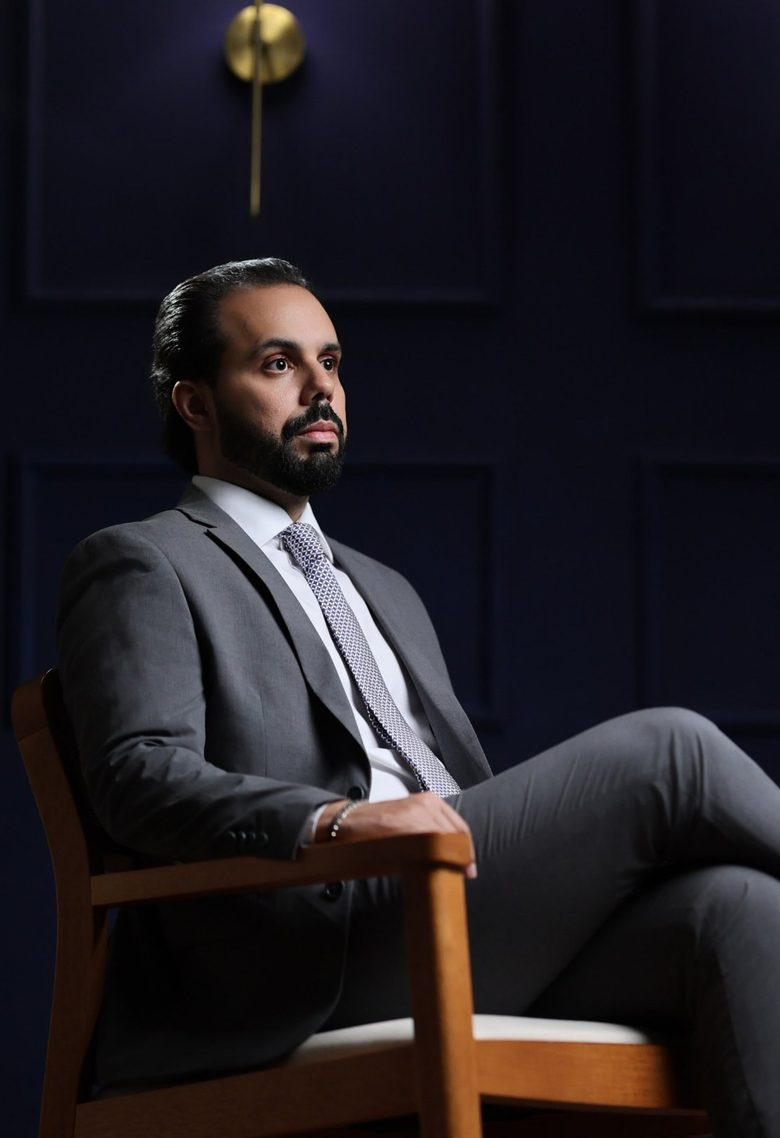
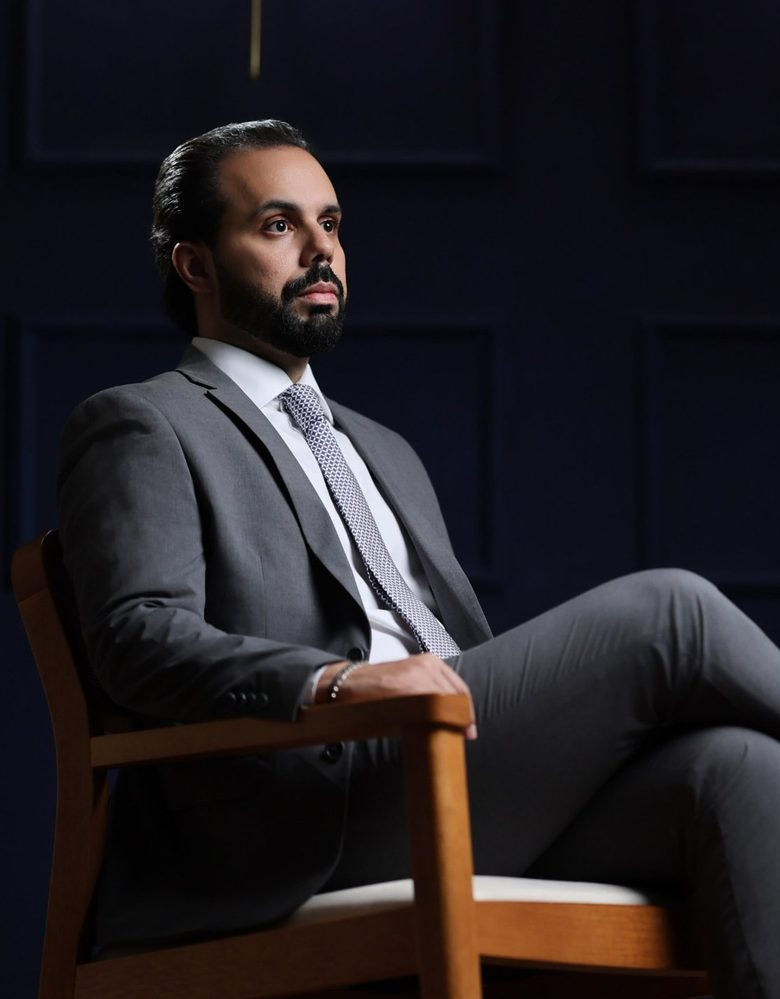
Atualiza biolink João Angeline Júnior

diff --git a/index.html b/index.html
@@ -418,6 +418,14 @@ h1 .lt,h3 .lt{font-variation-settings:'wght' 200}h1 .hv,h3 .hv{font-variation-se
 #ano .pin{z-index:3}
 .s2{z-index:3}
 .rv.btn,.rv.opt,.rv.fold,.rv.slider{transition-property:opacity,transform,filter!important;transition-duration:.8s!important}
+
+/* ---------- v7: foto da capa entra focando de leve ---------- */
+.capa{aspect-ratio:780/999}
+.capa .who{top:29%}
+.capa .chip{top:2.5%}
+.capa.pre img{opacity:0}
+.capa.go img{animation:photoIn 1.25s cubic-bezier(.22,.7,.2,1) both}
+@keyframes photoIn{0%{opacity:0;filter:blur(7px);transform:scale(1.06)}55%{opacity:1;filter:blur(2.5px)}100%{opacity:1;filter:blur(0);transform:scale(1)}}
 </style><noscript><style>#intro{display:none}.rv,.w{opacity:1;transform:none;filter:none}</style></noscript></head>
 <body>
 <svg width="0" height="0" style="position:absolute" aria-hidden="true"><svg xmlns="http://www.w3.org/2000/svg" style="display:none" aria-hidden="true"><symbol id="i-house" viewBox="0 0 256 256"><path d="M219.31,108.68l-80-80a16,16,0,0,0-22.62,0l-80,80A15.87,15.87,0,0,0,32,120v96a8,8,0,0,0,8,8h64a8,8,0,0,0,8-8V160h32v56a8,8,0,0,0,8,8h64a8,8,0,0,0,8-8V120A15.87,15.87,0,0,0,219.31,108.68ZM208,208H160V152a8,8,0,0,0-8-8H104a8,8,0,0,0-8,8v56H48V120l80-80,80,80Z"/></symbol><symbol id="i-identification-badge" viewBox="0 0 256 256"><path d="M75.19,198.4a8,8,0,0,0,11.21-1.6,52,52,0,0,1,83.2,0,8,8,0,1,0,12.8-9.6A67.88,67.88,0,0,0,155,165.51a40,40,0,1,0-53.94,0A67.88,67.88,0,0,0,73.6,187.2,8,8,0,0,0,75.19,198.4ZM128,112a24,24,0,1,1-24,24A24,24,0,0,1,128,112Zm72-88H56A16,16,0,0,0,40,40V216a16,16,0,0,0,16,16H200a16,16,0,0,0,16-16V40A16,16,0,0,0,200,24Zm0,192H56V40H200ZM88,64a8,8,0,0,1,8-8h64a8,8,0,0,1,0,16H96A8,8,0,0,1,88,64Z"/></symbol><symbol id="i-magnifying-glass" viewBox="0 0 256 256"><path d="M229.66,218.34l-50.07-50.06a88.11,88.11,0,1,0-11.31,11.31l50.06,50.07a8,8,0,0,0,11.32-11.32ZM40,112a72,72,0,1,1,72,72A72.08,72.08,0,0,1,40,112Z"/></symbol><symbol id="i-cards" viewBox="0 0 256 256"><path d="M184,72H40A16,16,0,0,0,24,88V200a16,16,0,0,0,16,16H184a16,16,0,0,0,16-16V88A16,16,0,0,0,184,72Zm0,128H40V88H184V200ZM232,56V176a8,8,0,0,1-16,0V56H64a8,8,0,0,1,0-16H216A16,16,0,0,1,232,56Z"/></symbol><symbol id="i-seal-check" viewBox="0 0 256 256"><path d="M225.86,102.82c-3.77-3.94-7.67-8-9.14-11.57-1.36-3.27-1.44-8.69-1.52-13.94-.15-9.76-.31-20.82-8-28.51s-18.75-7.85-28.51-8c-5.25-.08-10.67-.16-13.94-1.52-3.56-1.47-7.63-5.37-11.57-9.14C146.28,23.51,138.44,16,128,16s-18.27,7.51-25.18,14.14c-3.94,3.77-8,7.67-11.57,9.14C88,40.64,82.56,40.72,77.31,40.8c-9.76.15-20.82.31-28.51,8S41,67.55,40.8,77.31c-.08,5.25-.16,10.67-1.52,13.94-1.47,3.56-5.37,7.63-9.14,11.57C23.51,109.72,16,117.56,16,128s7.51,18.27,14.14,25.18c3.77,3.94,7.67,8,9.14,11.57,1.36,3.27,1.44,8.69,1.52,13.94.15,9.76.31,20.82,8,28.51s18.75,7.85,28.51,8c5.25.08,10.67.16,13.94,1.52,3.56,1.47,7.63,5.37,11.57,9.14C109.72,232.49,117.56,240,128,240s18.27-7.51,25.18-14.14c3.94-3.77,8-7.67,11.57-9.14,3.27-1.36,8.69-1.44,13.94-1.52,9.76-.15,20.82-.31,28.51-8s7.85-18.75,8-28.51c.08-5.25.16-10.67,1.52-13.94,1.47-3.56,5.37-7.63,9.14-11.57C232.49,146.28,240,138.44,240,128S232.49,109.73,225.86,102.82Zm-11.55,39.29c-4.79,5-9.75,10.17-12.38,16.52-2.52,6.1-2.63,13.07-2.73,19.82-.1,7-.21,14.33-3.32,17.43s-10.39,3.22-17.43,3.32c-6.75.1-13.72.21-19.82,2.73-6.35,2.63-11.52,7.59-16.52,12.38S132,224,128,224s-9.15-4.92-14.11-9.69-10.17-9.75-16.52-12.38c-6.1-2.52-13.07-2.63-19.82-2.73-7-.1-14.33-.21-17.43-3.32s-3.22-10.39-3.32-17.43c-.1-6.75-.21-13.72-2.73-19.82-2.63-6.35-7.59-11.52-12.38-16.52S32,132,32,128s4.92-9.15,9.69-14.11,9.75-10.17,12.38-16.52c2.52-6.1,2.63-13.07,2.73-19.82.1-7,.21-14.33,3.32-17.43S70.51,56.9,77.55,56.8c6.75-.1,13.72-.21,19.82-2.73,6.35-2.63,11.52-7.59,16.52-12.38S124,32,128,32s9.15,4.92,14.11,9.69,10.17,9.75,16.52,12.38c6.1,2.52,13.07,2.63,19.82,2.73,7,.1,14.33.21,17.43,3.32s3.22,10.39,3.32,17.43c.1,6.75.21,13.72,2.73,19.82,2.63,6.35,7.59,11.52,12.38,16.52S224,124,224,128,219.08,137.15,214.31,142.11ZM173.66,98.34a8,8,0,0,1,0,11.32l-56,56a8,8,0,0,1-11.32,0l-24-24a8,8,0,0,1,11.32-11.32L112,148.69l50.34-50.35A8,8,0,0,1,173.66,98.34Z"/></symbol><symbol id="i-signature" viewBox="0 0 256 256"><path d="M232,168H63.86c2.66-5.24,5.33-10.63,8-16.11,15,1.65,32.58-8.78,52.66-31.14,5,13.46,14.45,30.93,30.58,31.25,9.06.18,18.11-5.2,27.42-16.37C189.31,143.75,203.3,152,232,152a8,8,0,0,0,0-16c-30.43,0-39.43-10.45-40-16.11a7.67,7.67,0,0,0-5.46-7.75,8.14,8.14,0,0,0-9.25,3.49c-12.07,18.54-19.38,20.43-21.92,20.37-8.26-.16-16.66-19.52-19.54-33.42a8,8,0,0,0-14.09-3.37C101.54,124.55,88,133.08,79.57,135.29,88.06,116.42,94.4,99.85,98.46,85.9c6.82-23.44,7.32-39.83,1.51-50.1-3-5.38-9.34-11.8-22.06-11.8C61.85,24,49.18,39.18,43.14,65.65c-3.59,15.71-4.18,33.21-1.62,48s7.87,25.55,15.59,31.94c-3.73,7.72-7.53,15.26-11.23,22.41H24a8,8,0,0,0,0,16H37.41c-11.32,21-20.12,35.64-20.26,35.88a8,8,0,1,0,13.71,8.24c.15-.26,11.27-18.79,24.7-44.12H232a8,8,0,0,0,0-16ZM58.74,69.21C62.72,51.74,70.43,40,77.91,40c5.33,0,7.1,1.86,8.13,3.67,3,5.33,6.52,24.19-21.66,86.39C56.12,118.78,53.31,93,58.74,69.21Z"/></symbol><symbol id="i-whatsapp-logo" viewBox="0 0 256 256"><path d="M187.58,144.84l-32-16a8,8,0,0,0-8,.5l-14.69,9.8a40.55,40.55,0,0,1-16-16l9.8-14.69a8,8,0,0,0,.5-8l-16-32A8,8,0,0,0,104,64a40,40,0,0,0-40,40,88.1,88.1,0,0,0,88,88,40,40,0,0,0,40-40A8,8,0,0,0,187.58,144.84ZM152,176a72.08,72.08,0,0,1-72-72A24,24,0,0,1,99.29,80.46l11.48,23L101,118a8,8,0,0,0-.73,7.51,56.47,56.47,0,0,0,30.15,30.15A8,8,0,0,0,138,155l14.61-9.74,23,11.48A24,24,0,0,1,152,176ZM128,24A104,104,0,0,0,36.18,176.88L24.83,210.93a16,16,0,0,0,20.24,20.24l34.05-11.35A104,104,0,1,0,128,24Zm0,192a87.87,87.87,0,0,1-44.06-11.81,8,8,0,0,0-6.54-.67L40,216,52.47,178.6a8,8,0,0,0-.66-6.54A88,88,0,1,1,128,216Z"/></symbol><symbol id="i-envelope-simple" viewBox="0 0 256 256"><path d="M224,48H32a8,8,0,0,0-8,8V192a16,16,0,0,0,16,16H216a16,16,0,0,0,16-16V56A8,8,0,0,0,224,48ZM203.43,64,128,133.15,52.57,64ZM216,192H40V74.19l82.59,75.71a8,8,0,0,0,10.82,0L216,74.19V192Z"/></symbol><symbol id="i-instagram-logo" viewBox="0 0 256 256"><path d="M128,80a48,48,0,1,0,48,48A48.05,48.05,0,0,0,128,80Zm0,80a32,32,0,1,1,32-32A32,32,0,0,1,128,160ZM176,24H80A56.06,56.06,0,0,0,24,80v96a56.06,56.06,0,0,0,56,56h96a56.06,56.06,0,0,0,56-56V80A56.06,56.06,0,0,0,176,24Zm40,152a40,40,0,0,1-40,40H80a40,40,0,0,1-40-40V80A40,40,0,0,1,80,40h96a40,40,0,0,1,40,40ZM192,76a12,12,0,1,1-12-12A12,12,0,0,1,192,76Z"/></symbol><symbol id="i-threads-logo" viewBox="0 0 256 256"><path d="M186.42,123.65a63.81,63.81,0,0,0-11.13-6.72c-4-29.89-24-39.31-33.1-42.07-19.78-6-42.51,1.19-52.85,16.7a8,8,0,0,0,13.32,8.88c6.37-9.56,22-14.16,34.89-10.27,9.95,3,16.82,10.3,20.15,21a81.05,81.05,0,0,0-15.29-1.43c-13.92,0-26.95,3.59-36.67,10.1C94.3,127.57,88,139,88,152c0,20.58,15.86,35.52,37.71,35.52a48,48,0,0,0,34.35-14.81c6.44-6.7,14-18.36,15.61-37.1.38.26.74.53,1.1.8C186.88,144.05,192,154.68,192,168c0,19.36-20.34,48-64,48-26.73,0-45.48-8.65-57.34-26.44C60.93,175,56,154.26,56,128s4.93-47,14.66-61.56C82.52,48.65,101.27,40,128,40c32.93,0,54,13.25,64.53,40.52a8,8,0,1,0,14.93-5.75C194.68,41.56,167.2,24,128,24,96,24,72.19,35.29,57.34,57.56,45.83,74.83,40,98.52,40,128s5.83,53.17,17.34,70.44C72.19,220.71,96,232,128,232c30.07,0,48.9-11.48,59.4-21.1C200.3,199.08,208,183,208,168,208,149.66,200.54,134.32,186.42,123.65Zm-37.89,38a31.94,31.94,0,0,1-22.82,9.9c-10.81,0-21.71-6-21.71-19.52,0-12.63,12-26.21,38.41-26.21A63.88,63.88,0,0,1,160,128.24C160,142.32,156,153.86,148.53,161.62Z"/></symbol><symbol id="i-map-pin" viewBox="0 0 256 256"><path d="M128,64a40,40,0,1,0,40,40A40,40,0,0,0,128,64Zm0,64a24,24,0,1,1,24-24A24,24,0,0,1,128,128Zm0-112a88.1,88.1,0,0,0-88,88c0,31.4,14.51,64.68,42,96.25a254.19,254.19,0,0,0,41.45,38.3,8,8,0,0,0,9.18,0A254.19,254.19,0,0,0,174,200.25c27.45-31.57,42-64.85,42-96.25A88.1,88.1,0,0,0,128,16Zm0,206c-16.53-13-72-60.75-72-118a72,72,0,0,1,144,0C200,161.23,144.53,209,128,222Z"/></symbol><symbol id="i-gavel" viewBox="0 0 256 256"><path d="M243.32,116.69l-16-16a16,16,0,0,0-20.84-1.53L156.84,49.52a16,16,0,0,0-1.52-20.84l-16-16a16,16,0,0,0-22.63,0l-64,64a16,16,0,0,0,0,22.63l16,16a16,16,0,0,0,20.83,1.52L96.69,124,31.31,189.38A25,25,0,0,0,66.63,224.7L132,159.32l7.17,7.16a16,16,0,0,0,1.52,20.84l16,16a16,16,0,0,0,22.63,0l64-64A16,16,0,0,0,243.32,116.69ZM80,104,64,88l64-64,16,16ZM55.32,213.38a9,9,0,0,1-12.69,0,9,9,0,0,1,0-12.68L108,135.32,120.69,148ZM101,105.66,145.66,61,195,110.34,150.35,155ZM168,192l-16-16,4-4h0l56-56h0l4-4,16,16Z"/></symbol><symbol id="i-scales" viewBox="0 0 256 256"><path d="M239.43,133l-32-80h0a8,8,0,0,0-9.16-4.84L136,62V40a8,8,0,0,0-16,0V65.58L54.26,80.19A8,8,0,0,0,48.57,85h0v.06L16.57,165a7.92,7.92,0,0,0-.57,3c0,23.31,24.54,32,40,32s40-8.69,40-32a7.92,7.92,0,0,0-.57-3L66.92,93.77,120,82V208H104a8,8,0,0,0,0,16h48a8,8,0,0,0,0-16H136V78.42L187,67.1,160.57,133a7.92,7.92,0,0,0-.57,3c0,23.31,24.54,32,40,32s40-8.69,40-32A7.92,7.92,0,0,0,239.43,133ZM56,184c-7.53,0-22.76-3.61-23.93-14.64L56,109.54l23.93,59.82C78.76,180.39,63.53,184,56,184Zm144-32c-7.53,0-22.76-3.61-23.93-14.64L200,77.54l23.93,59.82C222.76,148.39,207.53,152,200,152Z"/></symbol><symbol id="i-arrow-up-right" viewBox="0 0 256 256"><path d="M200,64V168a8,8,0,0,1-16,0V83.31L69.66,197.66a8,8,0,0,1-11.32-11.32L172.69,72H88a8,8,0,0,1,0-16H192A8,8,0,0,1,200,64Z"/></symbol><symbol id="i-check" viewBox="0 0 256 256"><path d="M229.66,77.66l-128,128a8,8,0,0,1-11.32,0l-56-56a8,8,0,0,1,11.32-11.32L96,188.69,218.34,66.34a8,8,0,0,1,11.32,11.32Z"/></symbol><symbol id="i-caret-down" viewBox="0 0 256 256"><path d="M213.66,101.66l-80,80a8,8,0,0,1-11.32,0l-80-80A8,8,0,0,1,53.66,90.34L128,164.69l74.34-74.35a8,8,0,0,1,11.32,11.32Z"/></symbol><symbol id="i-stamp" viewBox="0 0 256 256"><path d="M224,224a8,8,0,0,1-8,8H40a8,8,0,0,1,0-16H216A8,8,0,0,1,224,224Zm0-80v40a16,16,0,0,1-16,16H48a16,16,0,0,1-16-16V144a16,16,0,0,1,16-16h56.43L88.72,54.71A32,32,0,0,1,120,16h16a32,32,0,0,1,31.29,38.71L151.57,128H208A16,16,0,0,1,224,144ZM120.79,128h14.42l16.43-76.65A16,16,0,0,0,136,32H120a16,16,0,0,0-15.65,19.35ZM208,184V144H48v40H208Z"/></symbol><symbol id="i-hand-swipe-right" viewBox="0 0 256 256"><path d="M216,140v36c0,25.59-8.49,42.85-8.85,43.58A8,8,0,0,1,200,224a7.9,7.9,0,0,1-3.57-.85,8,8,0,0,1-3.58-10.73c.06-.12,7.16-14.81,7.16-36.42V140a12,12,0,0,0-24,0v4a8,8,0,0,1-16,0V124a12,12,0,0,0-24,0v12a8,8,0,0,1-16,0V68a12,12,0,0,0-24,0V176a8,8,0,0,1-14.79,4.23l-18.68-30-.14-.23A12,12,0,1,0,41.6,162L70.89,212A8,8,0,1,1,57.08,220l-29.32-50a28,28,0,0,1,48.41-28.17L80,148V68a28,28,0,0,1,56,0V98.7a28,28,0,0,1,38.65,16.69A28,28,0,0,1,216,140Zm37.66-89.66-32-32a8,8,0,0,0-11.31,11.32L228.68,48H176a8,8,0,0,0,0,16h52.69L210.34,82.34a8,8,0,0,0,11.31,11.32l32-32A8,8,0,0,0,253.66,50.34Z"/></symbol><symbol id="i-folder-open" viewBox="0 0 256 256"><path d="M245,110.64A16,16,0,0,0,232,104H216V88a16,16,0,0,0-16-16H130.67L102.94,51.2a16.14,16.14,0,0,0-9.6-3.2H40A16,16,0,0,0,24,64V208h0a8,8,0,0,0,8,8H211.1a8,8,0,0,0,7.59-5.47l28.49-85.47A16.05,16.05,0,0,0,245,110.64ZM93.34,64,123.2,86.4A8,8,0,0,0,128,88h72v16H69.77a16,16,0,0,0-15.18,10.94L40,158.7V64Zm112,136H43.1l26.67-80H232Z"/></symbol><symbol id="i-clock-countdown" viewBox="0 0 256 256"><path d="M232,136.66A104.12,104.12,0,1,1,119.34,24,8,8,0,0,1,120.66,40,88.12,88.12,0,1,0,216,135.34,8,8,0,0,1,232,136.66ZM120,72v56a8,8,0,0,0,8,8h56a8,8,0,0,0,0-16H136V72a8,8,0,0,0-16,0Zm40-24a12,12,0,1,0-12-12A12,12,0,0,0,160,48Zm36,24a12,12,0,1,0-12-12A12,12,0,0,0,196,72Zm24,36a12,12,0,1,0-12-12A12,12,0,0,0,220,108Z"/></symbol><symbol id="i-file-text" viewBox="0 0 256 256"><path d="M213.66,82.34l-56-56A8,8,0,0,0,152,24H56A16,16,0,0,0,40,40V216a16,16,0,0,0,16,16H200a16,16,0,0,0,16-16V88A8,8,0,0,0,213.66,82.34ZM160,51.31,188.69,80H160ZM200,216H56V40h88V88a8,8,0,0,0,8,8h48V216Zm-32-80a8,8,0,0,1-8,8H96a8,8,0,0,1,0-16h64A8,8,0,0,1,168,136Zm0,32a8,8,0,0,1-8,8H96a8,8,0,0,1,0-16h64A8,8,0,0,1,168,168Z"/></symbol><symbol id="i-arrow-right" viewBox="0 0 256 256"><path d="M221.66,133.66l-72,72a8,8,0,0,1-11.32-11.32L196.69,136H40a8,8,0,0,1,0-16H196.69L138.34,61.66a8,8,0,0,1,11.32-11.32l72,72A8,8,0,0,1,221.66,133.66Z"/></symbol><symbol id="i-lightning" viewBox="0 0 256 256"><path d="M215.79,118.17a8,8,0,0,0-5-5.66L153.18,90.9l14.66-73.33a8,8,0,0,0-13.69-7l-112,120a8,8,0,0,0,3,13l57.63,21.61L88.16,238.43a8,8,0,0,0,13.69,7l112-120A8,8,0,0,0,215.79,118.17ZM109.37,214l10.47-52.38a8,8,0,0,0-5-9.06L62,132.71l84.62-90.66L136.16,94.43a8,8,0,0,0,5,9.06l52.8,19.8Z"/></symbol><symbol id="i-buildings" viewBox="0 0 256 256"><path d="M240,208H224V96a16,16,0,0,0-16-16H144V32a16,16,0,0,0-24.88-13.32L39.12,72A16,16,0,0,0,32,85.34V208H16a8,8,0,0,0,0,16H240a8,8,0,0,0,0-16ZM208,96V208H144V96ZM48,85.34,128,32V208H48ZM112,112v16a8,8,0,0,1-16,0V112a8,8,0,1,1,16,0Zm-32,0v16a8,8,0,0,1-16,0V112a8,8,0,1,1,16,0Zm0,56v16a8,8,0,0,1-16,0V168a8,8,0,0,1,16,0Zm32,0v16a8,8,0,0,1-16,0V168a8,8,0,0,1,16,0Z"/></symbol><symbol id="i-handshake" viewBox="0 0 256 256"><path d="M254.3,107.91,228.78,56.85a16,16,0,0,0-21.47-7.15L182.44,62.13,130.05,48.27a8.14,8.14,0,0,0-4.1,0L73.56,62.13,48.69,49.7a16,16,0,0,0-21.47,7.15L1.7,107.9a16,16,0,0,0,7.15,21.47l27,13.51,55.49,39.63a8.06,8.06,0,0,0,2.71,1.25l64,16a8,8,0,0,0,7.6-2.1l55.07-55.08,26.42-13.21a16,16,0,0,0,7.15-21.46Zm-54.89,33.37L165,113.72a8,8,0,0,0-10.68.61C136.51,132.27,116.66,130,104,122L147.24,80h31.81l27.21,54.41ZM41.53,64,62,74.22,36.43,125.27,16,115.06Zm116,119.13L99.42,168.61l-49.2-35.14,28-56L128,64.28l9.8,2.59-45,43.68-.08.09a16,16,0,0,0,2.72,24.81c20.56,13.13,45.37,11,64.91-5L188,152.66Zm62-57.87-25.52-51L214.47,64,240,115.06Zm-87.75,92.67a8,8,0,0,1-7.75,6.06,8.13,8.13,0,0,1-1.95-.24L80.41,213.33a7.89,7.89,0,0,1-2.71-1.25L51.35,193.26a8,8,0,0,1,9.3-13l25.11,17.94L126,208.24A8,8,0,0,1,131.82,217.94Z"/></symbol><symbol id="i-users-three" viewBox="0 0 256 256"><path d="M244.8,150.4a8,8,0,0,1-11.2-1.6A51.6,51.6,0,0,0,192,128a8,8,0,0,1-7.37-4.89,8,8,0,0,1,0-6.22A8,8,0,0,1,192,112a24,24,0,1,0-23.24-30,8,8,0,1,1-15.5-4A40,40,0,1,1,219,117.51a67.94,67.94,0,0,1,27.43,21.68A8,8,0,0,1,244.8,150.4ZM190.92,212a8,8,0,1,1-13.84,8,57,57,0,0,0-98.16,0,8,8,0,1,1-13.84-8,72.06,72.06,0,0,1,33.74-29.92,48,48,0,1,1,58.36,0A72.06,72.06,0,0,1,190.92,212ZM128,176a32,32,0,1,0-32-32A32,32,0,0,0,128,176ZM72,120a8,8,0,0,0-8-8A24,24,0,1,1,87.24,82a8,8,0,1,0,15.5-4A40,40,0,1,0,37,117.51,67.94,67.94,0,0,0,9.6,139.19a8,8,0,1,0,12.8,9.61A51.6,51.6,0,0,1,64,128,8,8,0,0,0,72,120Z"/></symbol><symbol id="i-bank" viewBox="0 0 256 256"><path d="M24,104H48v64H32a8,8,0,0,0,0,16H224a8,8,0,0,0,0-16H208V104h24a8,8,0,0,0,4.19-14.81l-104-64a8,8,0,0,0-8.38,0l-104,64A8,8,0,0,0,24,104Zm40,0H96v64H64Zm80,0v64H112V104Zm48,64H160V104h32ZM128,41.39,203.74,88H52.26ZM248,208a8,8,0,0,1-8,8H16a8,8,0,0,1,0-16H240A8,8,0,0,1,248,208Z"/></symbol><symbol id="i-certificate" viewBox="0 0 256 256"><path d="M128,136a8,8,0,0,1-8,8H72a8,8,0,0,1,0-16h48A8,8,0,0,1,128,136Zm-8-40H72a8,8,0,0,0,0,16h48a8,8,0,0,0,0-16Zm112,65.47V224A8,8,0,0,1,220,231l-24-13.74L172,231A8,8,0,0,1,160,224V200H40a16,16,0,0,1-16-16V56A16,16,0,0,1,40,40H216a16,16,0,0,1,16,16V86.53a51.88,51.88,0,0,1,0,74.94ZM160,184V161.47A52,52,0,0,1,216,76V56H40V184Zm56-12a51.88,51.88,0,0,1-40,0v38.22l16-9.16a8,8,0,0,1,7.94,0l16,9.16Zm16-48a36,36,0,1,0-36,36A36,36,0,0,0,232,124Z"/></symbol><symbol id="i-timer" viewBox="0 0 256 256"><path d="M128,40a96,96,0,1,0,96,96A96.11,96.11,0,0,0,128,40Zm0,176a80,80,0,1,1,80-80A80.09,80.09,0,0,1,128,216ZM173.66,90.34a8,8,0,0,1,0,11.32l-40,40a8,8,0,0,1-11.32-11.32l40-40A8,8,0,0,1,173.66,90.34ZM96,16a8,8,0,0,1,8-8h48a8,8,0,0,1,0,16H104A8,8,0,0,1,96,16Z"/></symbol><symbol id="i-fingerprint" viewBox="0 0 256 256"><path d="M72,128a134.63,134.63,0,0,1-14.16,60.47,8,8,0,1,1-14.32-7.12A118.8,118.8,0,0,0,56,128,71.73,71.73,0,0,1,83,71.8,8,8,0,1,1,93,84.29,55.76,55.76,0,0,0,72,128Zm56-8a8,8,0,0,0-8,8,184.12,184.12,0,0,1-23,89.1,8,8,0,0,0,14,7.76A200.19,200.19,0,0,0,136,128,8,8,0,0,0,128,120Zm0-32a40,40,0,0,0-40,40,8,8,0,0,0,16,0,24,24,0,0,1,48,0,214.09,214.09,0,0,1-20.51,92A8,8,0,1,0,146,226.83,230,230,0,0,0,168,128,40,40,0,0,0,128,88Zm0-64A104.11,104.11,0,0,0,24,128a87.76,87.76,0,0,1-5,29.33,8,8,0,0,0,15.09,5.33A103.9,103.9,0,0,0,40,128a88,88,0,0,1,176,0,282.24,282.24,0,0,1-5.29,54.45,8,8,0,0,0,6.3,9.4,8.22,8.22,0,0,0,1.55.15,8,8,0,0,0,7.84-6.45A298.37,298.37,0,0,0,232,128,104.12,104.12,0,0,0,128,24ZM94.4,152.17A8,8,0,0,0,85,158.42a151,151,0,0,1-17.21,45.44,8,8,0,0,0,13.86,8,166.67,166.67,0,0,0,19-50.25A8,8,0,0,0,94.4,152.17ZM128,56a72.85,72.85,0,0,0-9,.56,8,8,0,0,0,2,15.87A56.08,56.08,0,0,1,184,128a252.12,252.12,0,0,1-1.92,31A8,8,0,0,0,189,168a8.39,8.39,0,0,0,1,.06,8,8,0,0,0,7.92-7,266.48,266.48,0,0,0,2-33A72.08,72.08,0,0,0,128,56Zm57.93,128.25a8,8,0,0,0-9.75,5.75c-1.46,5.69-3.15,11.4-5,17a8,8,0,0,0,5,10.13,7.88,7.88,0,0,0,2.55.42,8,8,0,0,0,7.58-5.46c2-5.92,3.79-12,5.35-18.05A8,8,0,0,0,185.94,184.26Z"/></symbol><symbol id="i-list-checks" viewBox="0 0 256 256"><path d="M224,128a8,8,0,0,1-8,8H128a8,8,0,0,1,0-16h88A8,8,0,0,1,224,128ZM128,72h88a8,8,0,0,0,0-16H128a8,8,0,0,0,0,16Zm88,112H128a8,8,0,0,0,0,16h88a8,8,0,0,0,0-16ZM82.34,42.34,56,68.69,45.66,58.34A8,8,0,0,0,34.34,69.66l16,16a8,8,0,0,0,11.32,0l32-32A8,8,0,0,0,82.34,42.34Zm0,64L56,132.69,45.66,122.34a8,8,0,0,0-11.32,11.32l16,16a8,8,0,0,0,11.32,0l32-32a8,8,0,0,0-11.32-11.32Zm0,64L56,196.69,45.66,186.34a8,8,0,0,0-11.32,11.32l16,16a8,8,0,0,0,11.32,0l32-32a8,8,0,0,0-11.32-11.32Z"/></symbol><symbol id="i-stack" viewBox="0 0 256 256"><path d="M230.91,172A8,8,0,0,1,228,182.91l-96,56a8,8,0,0,1-8.06,0l-96-56A8,8,0,0,1,36,169.09l92,53.65,92-53.65A8,8,0,0,1,230.91,172ZM220,121.09l-92,53.65L36,121.09A8,8,0,0,0,28,134.91l96,56a8,8,0,0,0,8.06,0l96-56A8,8,0,1,0,220,121.09ZM24,80a8,8,0,0,1,4-6.91l96-56a8,8,0,0,1,8.06,0l96,56a8,8,0,0,1,0,13.82l-96,56a8,8,0,0,1-8.06,0l-96-56A8,8,0,0,1,24,80Zm23.88,0L128,126.74,208.12,80,128,33.26Z"/></symbol></svg></svg>
@@ -687,12 +695,12 @@ $$('[data-split]').forEach(function(h){
 });
 /* ---------- o site inteiro se monta ---------- */
 var VAR=['up','blur','zoom','left','right'],vi=0;
-var AUTO=['.col>.k','.col>.lead','.col>.hint','.col>.stamp-line','.capa img','.capa .chip','.capa .tag','.btn','.stage','.deck','.dctl','.steps','.opt','.slider','.strip','.cred-f','.mods','.yr','.days','.quote','.prog','.ficha','.again','.edital','.fold'];
-var nm=$('.capa .name');if(nm)nm.setAttribute('data-split','');
+var AUTO=['.col>.k','.col>.lead','.col>.hint','.col>.stamp-line','.capa .chip','.capa .tag','.btn','.stage','.deck','.dctl','.steps','.opt','.slider','.strip','.cred-f','.mods','.yr','.days','.quote','.prog','.ficha','.again','.edital','.fold'];
+var capa=$('.capa');if(capa&&!RM)capa.classList.add('pre');
 if(!RM){
   $$(AUTO.join(',')).forEach(function(el){
     if(el.closest('#intro'))return;
-    if(!el.classList.contains('rv')){el.classList.add('rv');el.setAttribute('data-rv',el.matches('.capa img')?'photo':el.matches('.capa .chip,.mods')?'fade':VAR[vi++%VAR.length])}
+    if(!el.classList.contains('rv')){el.classList.add('rv');el.setAttribute('data-rv',el.matches('.capa .chip,.mods')?'fade':VAR[vi++%VAR.length])}
   });
 }
 var io=new IntersectionObserver(function(es){
@@ -730,7 +738,7 @@ function startIntro(){
   idle=setInterval(idleBid,1300);clk=setInterval(clkTick,1000);
 }
 function openPage(){
-  if(opened)return;opened=true;clearInterval(idle);clearInterval(clk);
+  if(opened)return;opened=true;if(capa){capa.classList.remove('pre');capa.classList.add('go')}clearInterval(idle);clearInterval(clk);
   intro.classList.add('gone');body.classList.remove('locked');setTimeout(startReveal,350);
   setTimeout(function(){intro.style.display='none'},1000);
   $('#nav').classList.add('show');
